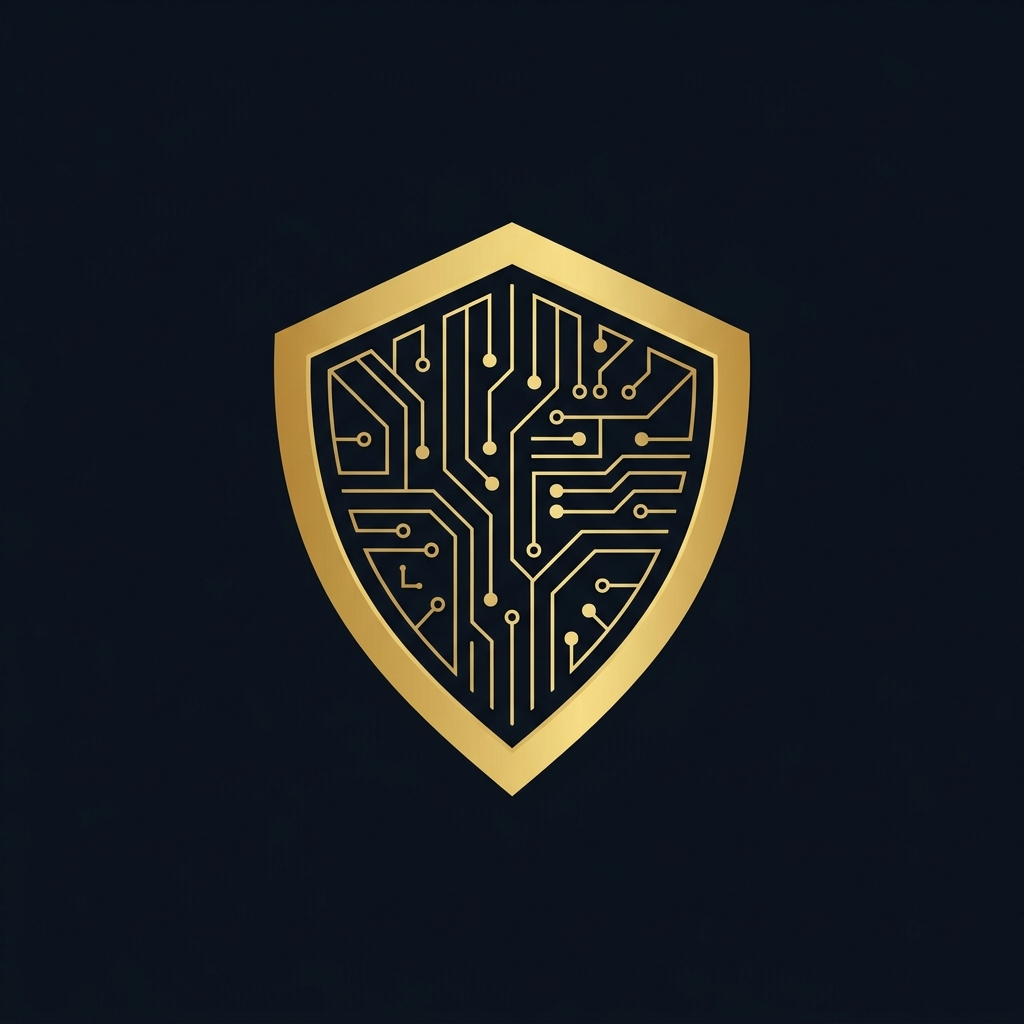
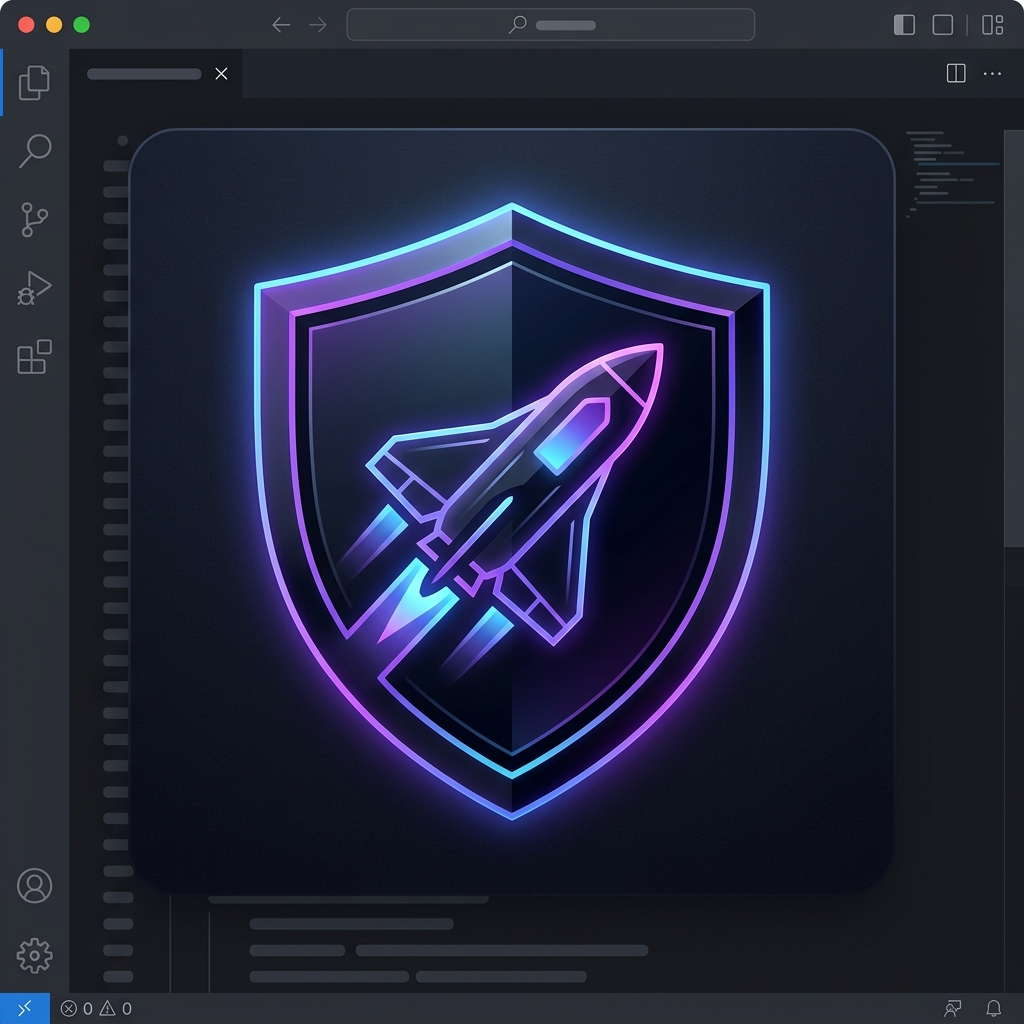
Update project metadata and release to 1.0.0
Align project metadata and docs for a 1.0.0 release: update package.json (version, publisher, repository URL) and package-lock to match; refresh README badge and license link. Rewrite CHANGELOG to a concise Initial Release entry. Minor packaging and assets updates: add anbudev_logo.png to .vscodeignore, replace resources/icon.png, update dashboard HTML title to "Anbudev Mission Control", and normalize some JSON formatting/whitespace. These changes prepare the extension for publishing under the new publisher/repo and keep metadata/docs consistent.

diff --git a/src/dashboardProvider.ts b/src/dashboardProvider.ts
@@ -476,7 +476,7 @@ export class DashboardProvider {
 <head>
 <meta charset="UTF-8">
 <meta name="viewport" content="width=device-width, initial-scale=1.0">
-<title>Anbutech Mission Control</title>
+<title>Anbudev Mission Control</title>
 <style>
 @import url('https://fonts.googleapis.com/css2?family=Orbitron:wght@400;700;900&family=Inter:wght@400;600;800&display=swap');
 *{margin:0;padding:0;box-sizing:border-box}
@@ -768,3 +768,4 @@ document.addEventListener('DOMContentLoaded', function() {
 </html>`;
     }
 }
+

diff --git a/src/extension.ts b/src/extension.ts
@@ -2212,3 +2212,4 @@ async function getUserInfo(accessToken: string): Promise<any> {
 }
 
 export function deactivate() { }
+

diff --git a/CHANGELOG.md b/CHANGELOG.md
@@ -4,47 +4,31 @@ All notable changes to the **Antigravity Mission Control** extension will be doc
 
 ---
 
-## [1.4.0] - 2026-05-23
+## [1.0.0] - 2026-05-23
 
-### Added
-- **Friendly Display Names**: Cryptic API model names (e.g. `gemini-3.1-pro-low`, `gemini-3.5-flash-low`, `claude-sonnet-4.6`) are now dynamically translated into beautiful, human-readable labels like **Gemini 3.1 Pro (Low)** and **Claude Sonnet 4.6 (Thinking)**.
-- **Unified Model Mapping**: Applied display name mappings globally across the Status Bar tooltips, Focus Node telemetry panels, All Models dialogs, and Route Group configuration managers.
+### 🎉 Initial Release
 
-### Changed
-- **Windows URI Silent Protocol Bypassing**: Replaced legacy `explorer` protocol executions with a background `cmd /c start` command string. This silently triggers custom IDE URI protocols, successfully bypassing annoying Windows "Application not found" modal popups when protocol registrations are not ready.
-- **VPN / Proxy Telemetry Suppression**: Implemented a hard check for SSL-Inspection certificates. Prevents request flooding and loop locks if proxy environments intercept the backend handshake.
+#### Dashboard & Telemetry
+- **Obsidian Dark & Cyberpunk Glassmorphism Dashboard**: Premium visual interface with translucent panels, vibrant progress gauges, and active status indicators.
+- **Friendly Model Identifiers**: Automatically maps cryptic system model IDs into human-readable, premium display labels (e.g., `gemini-3.1-pro-low` → **Gemini 3.1 Pro (Low)**).
+- **StatusGator Integration**: Live traffic status updates for the Antigravity backend directly within the dashboard.
 
-### Fixed
-- **Timer & Memory Leakage Guard**: Registered background status pollers (`statusGatorTimer`) inside the active subscription disposal array. Guarantees that all active timers are garbage collected when the extension host restarts or is deactivated, removing system lag.
+#### Account & Profile Management
+- **Multi-Account Command Center**: Full observability into all active LLM subscriptions and profiles.
+- **Frictionless Switch Engine**: Seamlessly switch active profiles with two modes — **Advanced** (automatic process kill & restart) and **Safe** (graceful background injection).
+- **Quick Health Rotation**: Instantly switch to the healthiest account with `Ctrl+Shift+A`.
+- **OAuth Credentials Flow**: Interactive login with refresh token credentials.
+- **Token Import/Export**: JSON batch exporter and importer for cross-machine portability.
+- **Route Groups Manager**: Create custom named groups to prioritize model sets.
+- **Auto-Rotation Alerts**: Notifications when models fall below configurable thresholds.
 
----
+#### Network Resilience
+- **SSL-Inspection Shield**: Detects corporate firewall/VPN blocks and automatically suspends telemetry loops to prevent request storms.
+- **Windows Silent Protocol Fallback**: Background `cmd /c start` sub-spawning bypasses Windows "Application not found" popup dialogs.
 
-## [1.3.0] - 2026-04-12
+#### Workspace Tools
+- **Sterile Trajectory Clean**: 1-click purging of broken `.antigravity/` and `.jetski/` session states without touching source code.
+- **Git Worktree Coexistence**: Resolves Git repository blocks from stale worktree configurations.
 
-### Added
-- **StatusGator Integration**: Live traffic status updates directly within the main dashboard widget.
-- **Safe Clean (Trajectory Recovery)**: Automated workspace purging for `.jetski` and `.antigravity` configuration files to fix broken trajectories without touching code.
-- **Git Worktree Downgrade Workaround**: Automated rescue script to clean up worktree options and prevent checkout blocks during switching.
-
----
-
-## [1.2.0] - 2026-02-18
-
-### Added
-- **Route Groups Manager**: Create custom named groups to prioritize model sets side-by-side.
-- **Auto-Rotation Alerts**: Alerts users with notifications if models fall below a configurable threshold (e.g., 10%).
-
----
-
-## [1.1.0] - 2025-11-05
-
-### Added
-- **OAuth Credentials Flow**: Implemented interactive login with refresh token credentials.
-- **Token Exporter**: Added JSON batch exporter and importer features.
-
----
-
-## [1.0.0] - 2025-09-01
-
-### Added
-- **Initial Release**: Basic dashboard view, multi-profile credentials synchronization, and status bar controls.
+#### Reliability
+- **Timer & Memory Leakage Guard**: All background pollers are properly registered for disposal on deactivation.

diff --git a/README.md b/README.md
@@ -1,6 +1,6 @@
 # 🛡️ Antigravity Mission Control
 
-[![Version](https://img.shields.io/badge/version-1.4.0-blueviolet.svg?style=for-the-badge)](https://github.com/at2008/antigravity-mission-control)
+[![Version](https://img.shields.io/badge/version-1.0.0-blueviolet.svg?style=for-the-badge)](https://github.com/at2008/antigravity-mission-control)
 [![VS Code](https://img.shields.io/badge/VS_Code-^1.95.0-blue.svg?style=for-the-badge&logo=visual-studio-code)](https://code.visualstudio.com)
 [![Platform](https://img.shields.io/badge/Platform-Windows%20%7C%20macOS%20%7C%20Linux-brightgreen.svg?style=for-the-badge)](https://github.com/at2008/antigravity-mission-control)
 [![License](https://img.shields.io/badge/License-MIT-orange.svg?style=for-the-badge)](https://opensource.org/licenses/MIT)
@@ -88,4 +88,5 @@ Package the extension locally to verify code changes or install manually:
 
 ## 📜 License
 
-This project is licensed under the MIT License. See [LICENSE](file:///E:/Antigravity/Antigravity-Mission-Control/LICENSE) for details.
+This project is licensed under the MIT License. See [LICENSE](file:///E:/Antigravity/antigravity-mission-control/LICENSE) for details.
+